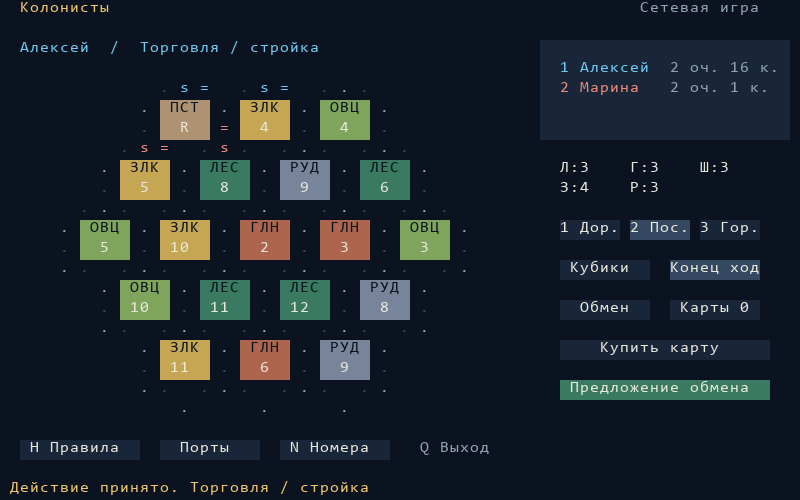
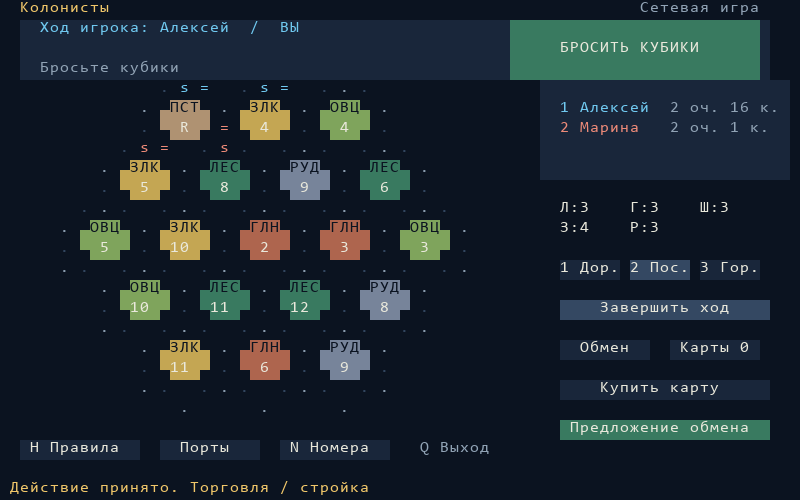
collonist3

diff --git a/tests/test_colonists.py b/tests/test_colonists.py
@@ -241,6 +241,18 @@ for Runtime in (Lua52, Lua53):
           TEST_COMMAND({kind="offer",target=2,give="wood",want="grain",giveN=1,wantN=1})
           TEST_RENDER(nil)
           captures.board=screenCells; screenCells={}
+          host.game.phase="roll"; TEST_SYNC(); TEST_RENDER(nil)
+          captures.roll=screenCells; screenCells={}
+          local function rollButton()
+            for _,b in ipairs(TEST_INSPECT().buttons) do if b.label=="БРОСИТЬ КУБИКИ" then return b end end
+            error("top roll button missing")
+          end
+          local b=rollButton(); assert(b.h==3 and b.y<=3)
+          local revision=host.game.revision
+          b.fn(); assert(host.game.revision==revision+1 and host.game.phase~="roll")
+          host.game.turn=2; host.game.phase="roll"; TEST_SYNC(); TEST_RENDER(nil)
+          revision=host.game.revision; rollButton().fn(); assert(host.game.revision==revision)
+          host.game.turn=1; host.game.phase="build"; TEST_SYNC()
           TEST_RENDER({kind="help"}); captures.help=screenCells; screenCells={}
           TEST_RENDER({kind="ports"}); captures.ports=screenCells; screenCells={}
           TEST_RENDER({kind="trade",give=1,want=2,giveN=1,wantN=1,target=2})
@@ -259,7 +271,7 @@ for Runtime in (Lua52, Lua53):
     ''')
     instrumented = SOURCE.replace(
         'local ok,reason=xpcall(main,debug.traceback)',
-        '''TEST_INSPECT=function() return {host=host, snapshot=snapshot,pending=pending,screen=screen} end
+        '''TEST_INSPECT=function() return {host=host, snapshot=snapshot,pending=pending,screen=screen,buttons=buttons} end
 TEST_COMMAND=command
 TEST_SYNC=function() acceptState(host:state(1)) end
 TEST_RENDER=function(m) modal=m; previous={}; render() end
@@ -273,7 +285,7 @@ local ok,reason=xpcall(main,debug.traceback)''')
         lua.execute('for i=0,15 do assert(palette[i]==i) end')
         if Runtime is Lua53 and width != 100:
             from PIL import Image, ImageDraw, ImageFont
-            cells = lua.globals().captures.board
+            cells = lua.globals().captures.roll
             image = Image.new('RGB', (width*10, height*20))
             draw = ImageDraw.Draw(image)
             font = ImageFont.truetype('C:/Windows/Fonts/consola.ttf', 16)
@@ -284,7 +296,11 @@ local ok,reason=xpcall(main,debug.traceback)''')
                     cell = cells[y][x]
                     px, py = (x-1)*10, (y-1)*20
                     draw.rectangle((px, py, px+9, py+19), fill=rgb(cell[3]))
-                    draw.text((px, py), cell[1], font=font, fill=rgb(cell[2]))
+                    if cell[1] in ('▄', '▀'):
+                        block_y = py+10 if cell[1] == '▄' else py
+                        draw.rectangle((px, block_y, px+9, block_y+9), fill=rgb(cell[2]))
+                    else:
+                        draw.text((px, py), cell[1], font=font, fill=rgb(cell[2]))
             filename = 'colonists-preview.png' if width == 160 else f'colonists-preview-{width}.png'
             image.save(ROOT / filename)
     lua.execute('step=0; fail=true; errors={}')
@@ -330,7 +346,7 @@ local ok,reason=xpcall(main,debug.traceback)''')
           for _,r in ipairs(Core.resources) do server.game:give(2,r,4) end
           respond({{address="host",body=server:state(2)}}); clientStage=2
         elseif clientStage==2 and info.snapshot and info.snapshot.game then
-          clientStage=3; return "touch","screen",57,12,0,"player"
+          clientStage=3; return "touch","screen",57,14,0,"player"
         elseif clientStage==3 then
           for eid=1,72 do if server.game:canRoad(2,eid,false) then chosenEdge=eid; break end end
           assert(chosenEdge)

diff --git a/COLONISTS.md b/COLONISTS.md
@@ -56,6 +56,16 @@ colonists join Марина 12345678-1234-1234-1234-123456789abc
 в нижней строке. На большом поле береговые порты дополнительно отмечены
 золотыми штрихами.
 
+В верхней панели постоянно указаны игрок, чей сейчас ход, и текущая фаза.
+Справа вверху расположена большая кнопка «Бросить кубики»: она активна только
+в фазе броска у игрока хода. После броска в панели показаны обе кости и сумма.
+На большом поле гексы имеют симметричные скошенные края и отдельные жетоны чисел;
+6 и 8 выделены цветом. На экране 80×25 используется компактная форма плиток.
+
+Стандартный максимум OC — **160×50 символов**, если и монитор, и видеокарта
+третьего уровня. Уровень 2 ограничен 80×25, уровень 1 — 50×16 и для игры
+не подходит. Это символьные ячейки, не разрешение в пикселях.
+
 - **s** — поселение, **C** — город. Цвет совпадает с игроком в списке.
   В режиме номеров рядом с постройкой дополнительно показан номер игрока.
 - Выберите «Дорога» и нажмите на ребро между двумя узлами.
